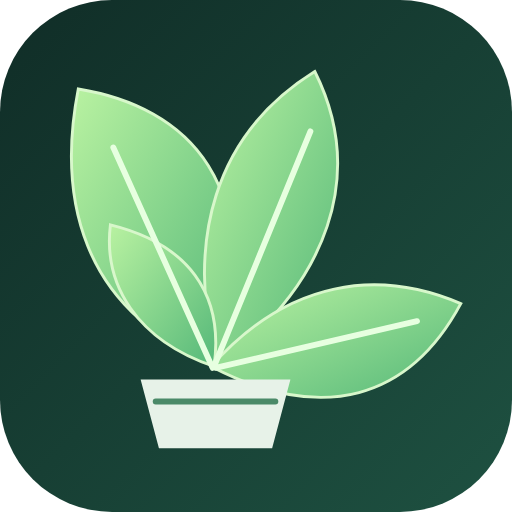
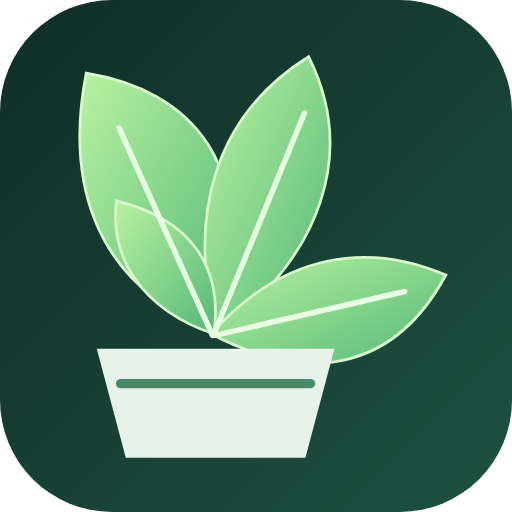
docs: enlarge the emblem's pot and shrink its leaves
Claude-Session: https://claude.ai/code/session_013uZs62LriKPCejSMFFtfdA

Changed region(s): [[0.125, 0.0938, 0.9062, 0.9062]]

diff --git a/custom_components/plant_manager/www/plant-manager-card.js b/custom_components/plant_manager/www/plant-manager-card.js
@@ -139,7 +139,7 @@ const plantManagerLanguage = (hass) => hass?.locale?.language || hass?.language;
 const plantManagerNumber = (value, T) => Number(value).toLocaleString(T.locale, { maximumFractionDigits: 1 });
 
 // The Plant Manager emblem, generated from docs/brand/plant-manager-icon.svg.
-const PLANT_MANAGER_EMBLEM = '<svg viewBox="0 0 256 256" aria-hidden="true"><defs><linearGradient id="pm-bg" x1="0" y1="0" x2="1" y2="1"><stop offset="0" stop-color="#102d27"/><stop offset="1" stop-color="#1e5141"/></linearGradient><linearGradient id="pm-leaf" x1="0" y1="0" x2="1" y2="1"><stop offset="0" stop-color="#b9f2a1"/><stop offset="1" stop-color="#55b879"/></linearGradient></defs><rect id="pm-tile" width="256" height="256" rx="56" fill="url(#pm-bg)"/><g id="pm-plant" transform="translate(26 27) scale(.73)" fill="url(#pm-leaf)" stroke="#d8f7cb" stroke-width="2"><path d="M112 212C18 176 4 96 18 24c74 12 132 65 94 188Z"/><path d="M113 214C91 128 111 55 180 12c35 70 10 145-67 202Z"/><path d="M109 214C162 154 224 147 280 171c-35 65-94 83-171 43Z"/><path d="M111 214C58 196 35 158 40 117c53 13 78 47 71 97Z"/><path d="M110 215L42 64M111 214L177 53M112 215L250 183" fill="none" stroke="#e7ffe0" stroke-width="4" stroke-linecap="round"/><path d="M62 224h100l-12 45H74Z" fill="#e7f2e8" stroke="#e7f2e8"/><path d="M71 238h82" fill="none" stroke="#4b8a68" stroke-width="4" stroke-linecap="round"/></g></svg>';
+const PLANT_MANAGER_EMBLEM = '<svg viewBox="0 0 256 256" aria-hidden="true"><defs><linearGradient id="pm-bg" x1="0" y1="0" x2="1" y2="1"><stop offset="0" stop-color="#102d27"/><stop offset="1" stop-color="#1e5141"/></linearGradient><linearGradient id="pm-leaf" x1="0" y1="0" x2="1" y2="1"><stop offset="0" stop-color="#b9f2a1"/><stop offset="1" stop-color="#55b879"/></linearGradient></defs><rect id="pm-tile" width="256" height="256" rx="56" fill="url(#pm-bg)"/><g id="pm-plant" transform="translate(11.7 -16.6) scale(.858)" fill="url(#pm-leaf)" stroke="#d8f7cb" stroke-width="2"><g transform="translate(111 214) scale(.8) translate(-111 -214)"><path d="M112 212C18 176 4 96 18 24c74 12 132 65 94 188Z"/><path d="M113 214C91 128 111 55 180 12c35 70 10 145-67 202Z"/><path d="M109 214C162 154 224 147 280 171c-35 65-94 83-171 43Z"/><path d="M111 214C58 196 35 158 40 117c53 13 78 47 71 97Z"/><path d="M110 215L42 64M111 214L177 53M112 215L250 183" fill="none" stroke="#e7ffe0" stroke-width="4" stroke-linecap="round"/></g><g transform="translate(112 224) scale(1.35) translate(-112 -224)"><path d="M62 224h100l-12 45H74Z" fill="#e7f2e8" stroke="#e7f2e8"/><path d="M71 238h82" fill="none" stroke="#4b8a68" stroke-width="4" stroke-linecap="round"/></g></g></svg>';
 
 const PLANT_MANAGER_STATUSES = {
   needs_water: { tone: "dry", icon: "mdi:water-alert-outline", order: 0 },

diff --git a/www/plant-manager-card.js b/www/plant-manager-card.js
@@ -139,7 +139,7 @@ const plantManagerLanguage = (hass) => hass?.locale?.language || hass?.language;
 const plantManagerNumber = (value, T) => Number(value).toLocaleString(T.locale, { maximumFractionDigits: 1 });
 
 // The Plant Manager emblem, generated from docs/brand/plant-manager-icon.svg.
-const PLANT_MANAGER_EMBLEM = '<svg viewBox="0 0 256 256" aria-hidden="true"><defs><linearGradient id="pm-bg" x1="0" y1="0" x2="1" y2="1"><stop offset="0" stop-color="#102d27"/><stop offset="1" stop-color="#1e5141"/></linearGradient><linearGradient id="pm-leaf" x1="0" y1="0" x2="1" y2="1"><stop offset="0" stop-color="#b9f2a1"/><stop offset="1" stop-color="#55b879"/></linearGradient></defs><rect id="pm-tile" width="256" height="256" rx="56" fill="url(#pm-bg)"/><g id="pm-plant" transform="translate(26 27) scale(.73)" fill="url(#pm-leaf)" stroke="#d8f7cb" stroke-width="2"><path d="M112 212C18 176 4 96 18 24c74 12 132 65 94 188Z"/><path d="M113 214C91 128 111 55 180 12c35 70 10 145-67 202Z"/><path d="M109 214C162 154 224 147 280 171c-35 65-94 83-171 43Z"/><path d="M111 214C58 196 35 158 40 117c53 13 78 47 71 97Z"/><path d="M110 215L42 64M111 214L177 53M112 215L250 183" fill="none" stroke="#e7ffe0" stroke-width="4" stroke-linecap="round"/><path d="M62 224h100l-12 45H74Z" fill="#e7f2e8" stroke="#e7f2e8"/><path d="M71 238h82" fill="none" stroke="#4b8a68" stroke-width="4" stroke-linecap="round"/></g></svg>';
+const PLANT_MANAGER_EMBLEM = '<svg viewBox="0 0 256 256" aria-hidden="true"><defs><linearGradient id="pm-bg" x1="0" y1="0" x2="1" y2="1"><stop offset="0" stop-color="#102d27"/><stop offset="1" stop-color="#1e5141"/></linearGradient><linearGradient id="pm-leaf" x1="0" y1="0" x2="1" y2="1"><stop offset="0" stop-color="#b9f2a1"/><stop offset="1" stop-color="#55b879"/></linearGradient></defs><rect id="pm-tile" width="256" height="256" rx="56" fill="url(#pm-bg)"/><g id="pm-plant" transform="translate(11.7 -16.6) scale(.858)" fill="url(#pm-leaf)" stroke="#d8f7cb" stroke-width="2"><g transform="translate(111 214) scale(.8) translate(-111 -214)"><path d="M112 212C18 176 4 96 18 24c74 12 132 65 94 188Z"/><path d="M113 214C91 128 111 55 180 12c35 70 10 145-67 202Z"/><path d="M109 214C162 154 224 147 280 171c-35 65-94 83-171 43Z"/><path d="M111 214C58 196 35 158 40 117c53 13 78 47 71 97Z"/><path d="M110 215L42 64M111 214L177 53M112 215L250 183" fill="none" stroke="#e7ffe0" stroke-width="4" stroke-linecap="round"/></g><g transform="translate(112 224) scale(1.35) translate(-112 -224)"><path d="M62 224h100l-12 45H74Z" fill="#e7f2e8" stroke="#e7f2e8"/><path d="M71 238h82" fill="none" stroke="#4b8a68" stroke-width="4" stroke-linecap="round"/></g></g></svg>';
 
 const PLANT_MANAGER_STATUSES = {
   needs_water: { tone: "dry", icon: "mdi:water-alert-outline", order: 0 },
